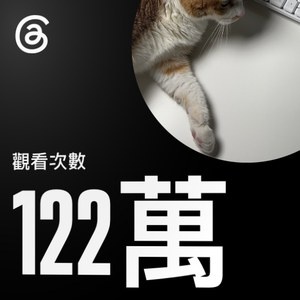
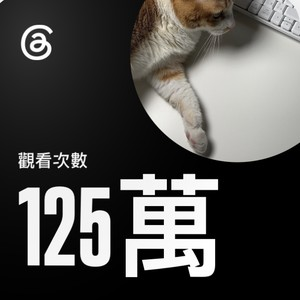
上架調水溫、穿針引線脆3萬、合作頁照片換125萬

diff --git a/index.html b/index.html
@@ -412,10 +412,19 @@ document.addEventListener("click", function (e) {
 
   <h2 class="soon-title play-title"><span>來玩吧！</span></h2>
   <div class="games">
+    <a class="game" href="shower/">
+      <img src="images/shower.jpg" width="720" height="597" alt="「調水溫！」標題，左邊雪地露天浴池裡旅遊貓被冰水淋到喊「好、好冰…」24° 好冰，右邊石牆浴室裡旅遊貓被熱水燙到喊「燙燙燙！」52° 好燙，中間是冷熱水龍頭和左右「一點點」按鈕，寫著「轉到剛剛好」">
+      <div class="info">
+        <span class="by">旅遊貓<span class="badge new">NEW</span></span>
+        <h2>調水溫！</h2>
+        <p>旅遊貓住飯店，每間的水龍頭都不一樣！慢半拍、超敏感、左右相反…轉到綠色區撐一下，60 秒你調得好幾間？</p>
+        <span class="play">開始玩</span>
+      </div>
+    </a>
     <a class="game" href="needle/">
       <img src="images/needle.jpg" width="720" height="597" alt="「穿針引線」紅色毛氈標題牌，大放大鏡裡貓掌捏著紅線剛好穿過針眼、冒出一圈金光和 +150，前面羊毛氈手作貓舉手歡呼，旁邊是插滿彩色針線的番茄針插">
       <div class="info">
-        <span class="by">手作貓<span class="badge new">NEW</span><span class="badge">🔥 脆 1.5 萬+ 瀏覽</span></span>
+        <span class="by">手作貓<span class="badge new">NEW</span><span class="badge">🔥 脆 3 萬+ 瀏覽</span></span>
         <h2>穿針引線</h2>
         <p>針一直晃！對準針眼按「穿過去」，線頭岔開就舔一下，越後面針眼越小，60 秒你穿得過幾根？</p>
         <span class="play">開始玩</span>
@@ -434,7 +443,7 @@ document.addEventListener("click", function (e) {
     <a class="game" href="sausage/">
       <img src="images/sausage.jpg" width="720" height="597" alt="烤爐上排滿香腸，下面是炭火，頭綁毛巾、穿紅白格子圍裙的賓士貓老闆站在攤子後面，上面是紅白遮雨棚和燈泡">
       <div class="info">
-        <span class="by">生活貓<span class="badge new">NEW</span><span class="badge">🔥 脆 2.8 萬+ 瀏覽</span></span>
+        <span class="by">生活貓<span class="badge">🔥 脆 2.8 萬+ 瀏覽</span></span>
         <h2>烤到凌晨三點</h2>
         <p>夜市香腸攤開張！香腸烤到會翻面、兩面熟就交給客人，要蒜就夾蒜，小心炭火突然變大，撐得到凌晨三點嗎？</p>
         <span class="play">開始玩</span>
@@ -624,16 +633,6 @@ document.addEventListener("click", function (e) {
 
   <h2 class="soon-title"><span>即將上架</span></h2>
   <div class="games">
-    <div class="game soon">
-      <div class="mystery" style="--tint:#e3ecdf"><span class="q">?</span><span class="tape">即將上架</span></div>
-      <div class="info">
-        <span class="by">旅遊貓</span>
-        <h2>神秘新遊戲</h2>
-        <p>週末，旅遊貓住進一間奇怪的飯店…上架那天就知道囉！</p>
-        <span class="date">11/28 上架</span>
-        <div class="knock-row"><button class="knock" type="button" data-knock="guest-1128" data-name="旅遊貓 11/28"><span class="bowl" aria-hidden="true">🥣</span>敲碗</button><span class="knock-n" aria-live="polite"></span></div>
-      </div>
-    </div>
 
     <div class="game soon">
       <div class="mystery" style="--tint:#efe0d2"><span class="q">?</span><span class="tape">即將上架</span></div>

diff --git a/work/index.html b/work/index.html
@@ -176,7 +176,7 @@ document.addEventListener("click", function (e) {
     <div class="stat"><img class="pic" src="../images/work-threads.jpg" alt="" width="300" height="300"><div><b>125<small> 萬</small></b><p>Threads 過去 30 天<br>貼文瀏覽次數</p></div></div>
     <div class="stat"><img class="pic" src="../images/color.jpg" alt="" width="720" height="597"><div><b>15<small> 萬+</small></b><p>「調色調調看」<br>一篇貼文的瀏覽</p></div></div>
     <div class="stat"><img class="pic" src="../images/work-colorplay.jpg" alt="" width="320" height="273"><div><b>2.4<small> 萬</small></b><p>人次玩過<br>「調色調調看」</p></div></div>
-    <div class="stat"><span class="pic stack" aria-hidden="true"><img src="../images/stamp.jpg" alt=""><img src="../images/blocks.jpg" alt=""><img src="../images/boba.jpg" alt=""></span><div><b>21<small> 款</small></b><p>已上架遊戲<br>每週新上 3 款</p></div></div>
+    <div class="stat"><span class="pic stack" aria-hidden="true"><img src="../images/stamp.jpg" alt=""><img src="../images/blocks.jpg" alt=""><img src="../images/boba.jpg" alt=""></span><div><b>22<small> 款</small></b><p>已上架遊戲<br>每週新上 3 款</p></div></div>
   </div>
   <p class="note">Threads 官方數據與網站計數・2026 年 11 月</p>
   <p class="more"><a href="https://www.threads.com/@daisy._.log/post/DfhVZrLERzF" target="_blank" rel="noopener">看「調色調調看」那篇 Threads →</a></p>
@@ -203,12 +203,12 @@ document.addEventListener("click", function (e) {
       <img src="../images/beads.jpg" width="720" height="597" alt="手作貓和拼豆板上的三花貓、珍珠奶茶、甜甜圈、小雞拼豆">
       <div><h3>拼豆燙燙樂</h3><p class="hot">🎮 5,500+ 人玩過</p><p>一顆顆拼出圖案，圖案能換成你的商品或 logo。</p></div>
     </a>
-    <a class="work" href="https://daisy-play.github.io/needle/" target="_blank" rel="noopener">
-      <img src="../images/needle.jpg" width="720" height="597" alt="「穿針引線」標題牌，放大鏡裡紅線剛好穿過針眼冒出金光，羊毛氈手作貓舉手歡呼，旁邊是番茄針插">
-      <div><h3>穿針引線</h3><p class="hot">✨ 最新上架</p><p>大家都穿過針、都穿不過去過，考自己以為會的小事，最適合標家人朋友一起比。</p></div>
+    <a class="work" href="https://daisy-play.github.io/shower/" target="_blank" rel="noopener">
+      <img src="../images/shower.jpg" width="720" height="597" alt="「調水溫！」標題，左邊旅遊貓在雪地浴池被冰水淋到，右邊被熱水燙到，中間是冷熱水龍頭，寫著「轉到剛剛好」">
+      <div><h3>調水溫！</h3><p class="hot">✨ 最新上架</p><p>每個人都被飯店水龍頭整過，一玩就有共鳴，適合飯店、旅宿、衛浴品牌。</p></div>
     </a>
   </div>
-  <p class="more"><a href="https://daisy-play.github.io/" target="_blank" rel="noopener">看全部 21 款遊戲 →</a></p>
+  <p class="more"><a href="https://daisy-play.github.io/" target="_blank" rel="noopener">看全部 22 款遊戲 →</a></p>
 
   <h2><span>可以幫你做什麼</span></h2>
   <ul class="ideas">
